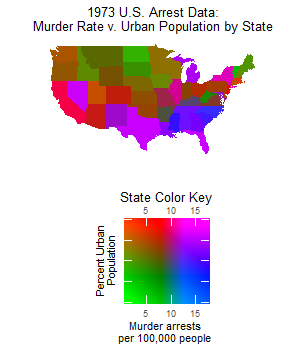
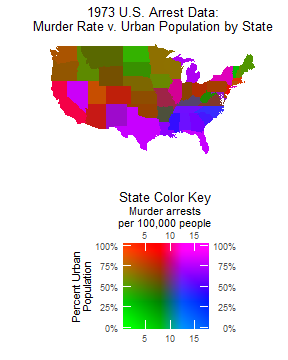
delete untracked files in inst/doc/ so taht vignettes will update when building package. fix outdated arguments in vignette example for guide_colorplane

Changed region(s): [[0.25, 0.5194, 0.8125, 0.9778]]

diff --git a/readme.md b/readme.md
@@ -2,7 +2,8 @@
 
 [![BuildStatus](https://travis-ci.org/wmurphyrd/colorplaner.svg?branch=master)](https://travis-ci.org/wmurphyrd/colorplaner)
 [![Coverage Status](https://coveralls.io/repos/github/wmurphyrd/colorplaner/badge.svg?branch=master)](https://coveralls.io/github/wmurphyrd/colorplaner?branch=master)
-
+[![CRAN Version](http://www.r-pkg.org/badges/version/colorplaner)](https://cran.r-project.org/package=colorplaner)
+[![CRAN Downloads](http://cranlogs.r-pkg.org/badges/grand-total/colorplaner)](https://cran.r-project.org/package=colorplaner)
 
 
 
@@ -12,6 +13,31 @@ The colorplaner R package is a ggplot2 extension to visualize two variables thro
 well as other visualizations with bivariate color scales. The extension implements two new scales, `scale_color_colorplane` and `scale_fill_colorplane`, two new aesthetics, `color2` and `fill2`, and a new guide `guide_colorplane`. 
 
 ![Example use of colorplane with the iris dataset.](figure/intro-1.png)
+
+
+## Installation
+
+To install:
+
+
+```r
+# CRAN Version:
+install.packages("colorplaner")
+# Current development version: 
+devtools::install_github("wmurphyrd/colorplaner")
+```
+
+#### Version 0.1.2
+* Fixed an issue that was preventing updated vignettes from building
+* Complete versions of `colorplaner` and `other_projections` vignettes 
+now included
+
+#### Version 0.1.1
+* Initial release of the colorplaner package
+* Implements two new gglot2 scales: `scale_color_colorplane` and 
+`scale_fill_colorplane`
+* Implements one new ggplot2 guide: `guide_colorplane`
+
 
 ## Motivation
 
@@ -173,23 +199,6 @@ Both
 are rendered as identically colored pixels, but the surrounding colors lead to
 differing perceptions. 
 
-
-## Installation
-
-To install:
-
-
-```r
-devtools::install_github("wmurphyrd/colorplaner")
-```
-
-#### Version 0.1.1
-* Initial release of the colorplaner package
-* Implements two new gglot2 scales: `scale_color_colorplane` and 
-`scale_fill_colorplane`
-* Implements one new ggplot2 guide: `guide_colorplane`
-
-
 ## Usage
 
 To implement color plane mapping in a `ggplot`, simply create aesthetic mappings to `color` and `color2` or `fill` and `fill2` and add the corresponding colorplane scale to the plot. The colorplane guide is added by default. 
@@ -230,8 +239,8 @@ modified with the following changes:
 4. Improve the guide titles (`axis_title`, `axis_title_y`, `title`)
 3. Change the guide vertical axis labels to a percentage scale (`fill2`, `labels_y`)
 4. Force the percentage scale to range from 0% to 100% (`limits_y`). 
-6. Duplicate guide labels on both sides (`label.position`, `label_y.position`)
-6. Move the x-axis title between the guide title and upper labels (`axis_title.position`)
+6. Duplicate guide labels on both sides (`label.position`, `label.y.position`)
+6. Move the x-axis title between the guide title and upper labels (`axis.title.position`)
 
 Additional options and details are described in the package documentation:
 `?scale_color_colorplane` and `?guide_colorplane`. 
@@ -260,10 +269,10 @@ if(require("maps")) {
       title = "State Color Key",
       title.theme = element_text(size = 13),
       label.theme = theme_gray(),
-      label_y.theme = theme_gray(),
-      axis_title.position = "top",
+      label.y.theme = theme_gray(),
+      axis.title.position = "top",
       label.position = c("top", "bottom"),
-      label_y.position = c("left", "right")))
+      label.y.position = c("left", "right")))
 }
 ```
 

diff --git a/cran-comments.md b/cran-comments.md
@@ -1,6 +1,19 @@
-## Resubmission
-This is a resubmission. I have edited the description to remove the repetition 
-of the package title.
+## Request for Early Update
+This a request to update the colorplaner package shortly after initial
+publication. 
+
+I am requesting this update because the published package contains
+incomplete versions of the package vignettes. This occurred because I had 
+inadvertently left files in /inst/docs/ from previous test building of vignettes
+and was unaware that this would prevent the current vignettes from being 
+built. 
+
+I have submitted a pull request for the devtools package to 
+add a check for this mistake to prevent it from happening to others: 
+https://github.com/hadley/devtools/pull/1362
+
+I apologize for the inefficient use of CRAN volunteer and server resources. 
+Thank you for considering this early update. 
 
 ## Test environments
 * local Windows 10 install, R 3.3.1
@@ -11,7 +24,6 @@ of the package title.
 There were no ERRORs or WARNINGs. 
 
 There is one NOTE for CRAN incoming feasibility:
-* This is an initial submission for a new package.
 * The spelling of the flagged words is as intended
     * bivariate (correct)
     * choropleth (correct)

diff --git a/NEWS.md b/NEWS.md
@@ -1,3 +1,8 @@
+# Version 0.1.2
+* Fixed an issue that was preventing updated vignettes from building
+* Complete versions of `colorplaner` and `other_projections` vignettes 
+now included
+
 # Version 0.1.1
 * Initial release of the colorplaner package
 * Implements two new gglot2 scales: `scale_color_colorplane` and 
